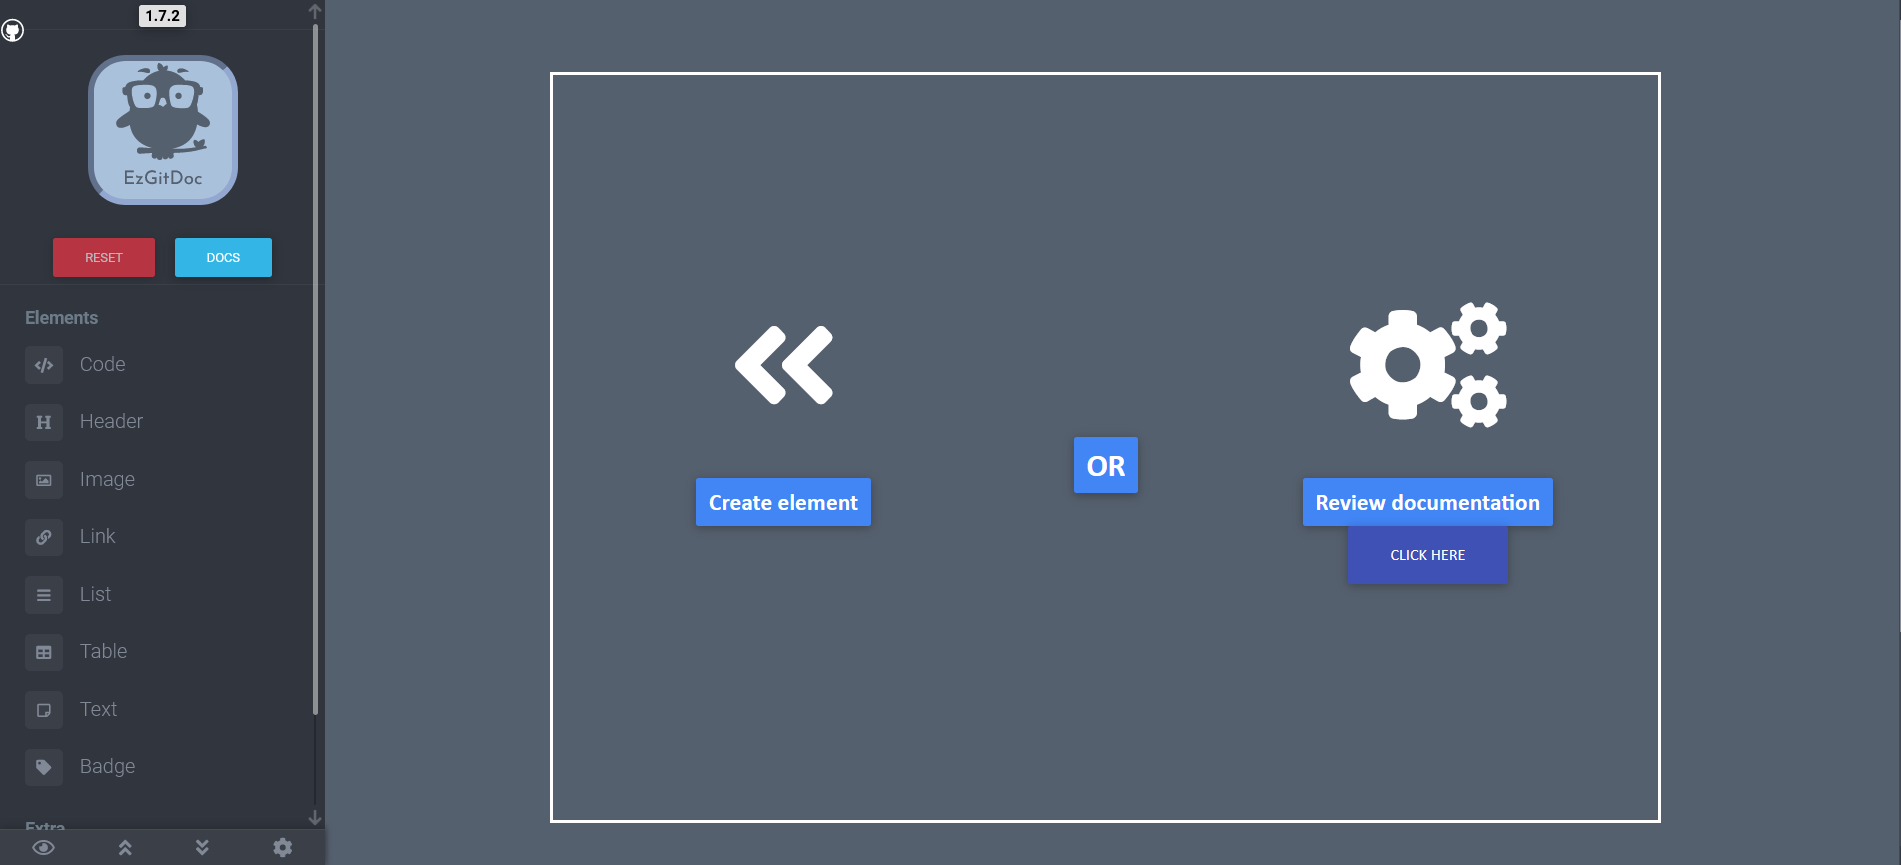
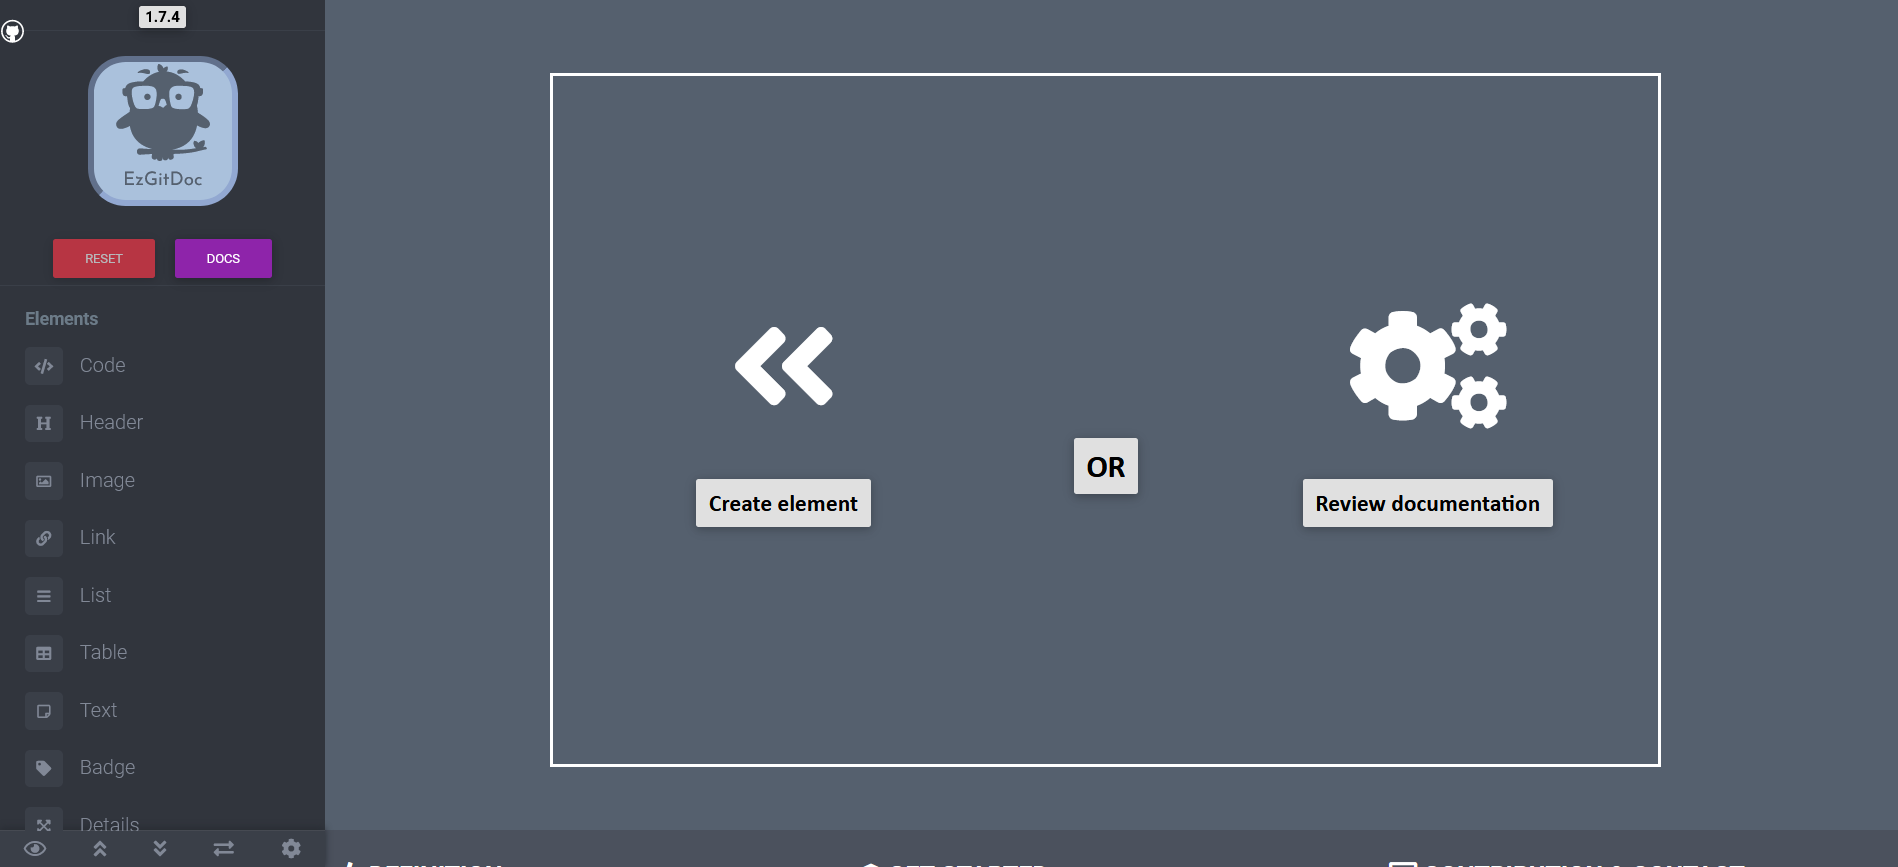
Update Quick start

diff --git a/src/pages/index.js b/src/pages/index.js
@@ -94,7 +94,7 @@ function Feature({imageUrl, title, description, credits, iconAuthor}) {
             <img className={styles.featureImage} src={imgUrl} alt={title} />
         </div>
       )}
-      <a href={credits} style={{fontSize:'10px'}} target="_blank">Icon made by {iconAuthor} from www.freeicons.io </a>
+      <a href={credits} style={{fontSize:'65%'}} target="_blank">Icon made by {iconAuthor} from www.freeicons.io </a>
       <h3>{title}</h3>
       <p className={styles.featureDescStyle}>{description}</p>
     </div>

diff --git a/docs/doc3_quickStart.md b/docs/doc3_quickStart.md
@@ -1,95 +1,145 @@
 ---
 id: doc3
-title: Quick start
+title: Quickstart
 slug: /quick-start
 ---
 
 import useBaseUrl from '@docusaurus/useBaseUrl';
 
-### 1. UI
+## 1. UI
 
 <p align="center">
 <img src={useBaseUrl('img/quickStart/1.png')} alt="Quick start - 01"/>
 </p>
 
 <p align="justify">
-EzGitDoc interface is split into two sections. Elements that can be created on the page are listed in the sidebar. Area that take the most space is a place where all rendered elements are stored during the process of making prototype.
+EzGitDoc interface is split into two sections. Elements that can be created on the page are listed in the sidebar. Area that take the most space(white rectangle) also named <strong>working space</strong>, is a place where all rendered elements are stored during the process of making prototype.
 </p>
 
 :::note
-Clicking one of the elements from sidebar or using exact key combination trigger modal in which you will need to pass some information in order to create chosen element.
+Clicking one of the elements from sidebar or using exact key combination triggers modal in which you will need to pass some information in order to create chosen element.
 :::
 
-### 2. Tools
+### 1.1. Sidebar
 
 <p align="center">
 <img src={useBaseUrl('img/quickStart/2.png')} alt="Quick start - 02"/>
 </p>
 
 <p align="justify">
-To reset prototype(clear all created elements) use red button placed below EzGitDoc logo in the sidebar section. This operation needs to be confirmed, so don't worry if you click it by mistake. 
-<br/><br/>
-In the bottom part of the sidebar there are 4 buttons(icons) that perform different operations. First one(eye icon) allows you to close sidebar to preview prototype without sidebar, double up/down arrow on click, slide to the top/bottom of the project. Last one(gear) opens modal with settings that can be adjusted.  
+Sidebar besides holding all references to elements that can be created within EzGitDoc has some useful tools that have been marked on the image above.
 </p>
 
-### 3. Settings
+#### [1] RESET
 
 <p align="justify">
-Personalize how EzGitDoc is working via settings panel.
+RESET button allows you to remove all created elements and clear working space. This operation cannot be undone and needs to be confirmed, so don't worry if you click it by mistake :) 
 </p>
 
-<p align="center">
-<img src={useBaseUrl('img/quickStart/3.png')} alt="Quick start - 03" height="400px"/>
-</p>
-
-### 4. Error Handling
+#### [2] DOCS
 
 <p align="justify">
-Before elements are created, required fields are validated. If given value is incompatible, empty or unexpected, notification will appear in the left top corner with details why element wasn't created. Element won't be created until errors are fixed. 
+Clicking on DOCS button results in opening new tab in browser with EzGitDoc documentation.
+</p>
+
+#### [3] FULL PAGE PREVIEW
+
+<p align="justify">
+Click on EYE icon to get full working space preview and hide sidebar.
+</p>
+
+#### [4] SCROLL TO THE TOP
+
+<p align="justify">
+If you click on DOUBLE UP ARROW icon, you will be moved to the top line of working space.
+</p>
+
+#### [5] SCROLL TO THE BOTTOM
+
+<p align="justify">
+If you click on DOUBLE DOWN ARROW icon, you will be moved to the bottom line of working space.
+</p>
+
+#### [6] REFERENCES
+
+<p align="justify">
+Tool added in EzGitDoc <a href="http://localhost:3000/EzGitDoc-documentation/changelog#v174-10102020" target="_blank">update 1.7.4</a> renders in modal references(anchors) to all elements created in EzGitDoc. It was made with purpose for biggers projects to quickly travel/move between elements. Clicked target is also highlighted for readability. 
 </p>
 
 <p align="center">
-<img src={useBaseUrl('img/quickStart/4.png')} alt="Quick start - 04"/>
+<img src={useBaseUrl('img/quickStart/3.png')} alt="Quick start - 02"/>
 </p>
 
-### 5. Updating content
+#### [7] SETTINGS
+
+<p align="justify">
+Click on GEAR icon to open modal with all EzGitDoc settings that can be personalized.
+</p>
 
 <p align="center">
-<img src={useBaseUrl('img/quickStart/5.png')} alt="Quick start - 05"/>
+<img src={useBaseUrl('img/quickStart/4.png')} alt="Quick start - 02"/>
+</p>
+
+### 1.2. Create
+
+<p align="justify">
+Process of creating element in EzGitDoc is simple. When certain element is activated from sidebar or triggered by shortkey combination you will see window(modal) on the right side with available options. Amount of data needed to fill in depends on element's type. Screen below shows window for creating image element.
+</p>
+
+<p align="center">
+<img src={useBaseUrl('img/quickStart/5.png')} alt="Quick start - 02"/>
+</p>
+
+### 1.3. Update
+
+<p align="justify">
+To update element, click on the button placed next to the element on it's left side (marked on the image below).
+</p>
+
+<p align="center">
+<img src={useBaseUrl('img/quickStart/6.png')} alt="Quick start - 02"/>
 </p>
 
 <p align="justify">
-If you want to update created element, for e.g. fill in data, you can do this by clicking left button(with test-tube icon), placed next to the element you wish to update. After that, modal will appear where you will be able to make allowed changes.
+Update window layout depends on element that is updated and implementend options. Almost every EzGitDoc element's content can be updated(besides few exceptions). For table element of type <strong>image / kbd / linked kbd</strong> you can only change all images resolutions at once. Below is shown update window for table of type text. 
 </p>
 
 <p align="center">
-<img src={useBaseUrl('img/quickStart/6.png')} alt="Quick start - 06"/>
+<img src={useBaseUrl('img/quickStart/7.png')} alt="Quick start - 02"/>
 </p>
 
 :::note
-If you plan on making more than one change it's worth to use update button frequently because if you click outside of the modal it disappears. Uncommited changes won't be saved and when you toggle update on the same element again, modal will be rerendered from it's last saved state. 
+If you plan on making more than one change it's worth to use update button frequently because if you click outside of the modal(update window) it disappears. Uncommited changes won't be saved and when you toggle update on the same element again, modal will be rerendered from it's last saved state. 
 :::
 
-### 6. Swapping & removing elements
+### 1.4. Errors
 
 <p align="justify">
-If you want to swap elements positions, you can do this by clicking with mouse button on the element you wish to move and drag until reaching desired position.
+Before elements are created, required fields are validated. If given value is incompatible, empty or unexpected, notification will appear in the left top corner with details why element wasn't created. Element won't be created until errors are fixed. Example:
 </p>
 
 <p align="center">
-<img src="https://trolit.github.io/EzGitDoc/images/quick_start_7.gif" alt="Quick start 6(Swapping Elements) gif"/>
+<img src={useBaseUrl('img/quickStart/8.png')} alt="Quick start - 04"/>
 </p>
 
-:::note
-To remove certain element, use red button(with white cross icon) that is placed on the right side.
-:::
+## 2. Working space
 
-### 7. Getting output
+### 2.1. Swapping elements
+
+<p align="justify">
+If you want to swap elements positions, you can do this by clicking with mouse button on the element you wish to move and drag until reaching desired position. In the future updates EzGitDoc will be extended with smart swapping tool.
+</p>
 
 <p align="center">
-<img src={useBaseUrl('img/quickStart/7.png')} alt="Quick start - 07"/>
+<img src={useBaseUrl('img/quickStart/9.gif')} alt="Quick start - 04"/>
+</p>
+
+### 2.2. Getting output
+
+<p align="center">
+<img src={useBaseUrl('img/quickStart/10.png')} alt="Quick start - 07"/>
 </p>
 
 <p align="justify">
-In order to be able to generate output for *.md file, you need to have at least one element created. If you do, you will notice button in the right top corner of the page called <code>Generate</code>. It will generate scheme output on click, showing results in modal like in the example above.
+In order to be able to generate output for *.md file, you need to have at least one element created. If you do, you will notice button in the right top corner of the page called <code>GENERATE CODE</code>. It will generate scheme output on click, showing results in modal like in the example above. You can copy output instantly into clipboard or save it for later.
 </p>

diff --git a/docs/doc0_about.md b/docs/doc0_about.md
@@ -11,10 +11,10 @@ import useBaseUrl from '@docusaurus/useBaseUrl';
 </p>
 
 <p align="justify">
-EzGitDoc allows to generate <code>*.md</code> file structure within projected template at <a href="https://trolit.github.io/EzGitDoc/"><em>https://trolit.github.io/EzGitDoc/</em></a>. You don't need to install anything as the project is setup and ready to use on github-pages. Every element's data can be modified after rendering it on page except image/kbd/linked kbd table(still with those table types you can quickly change images resolutions). Make prototype of your document, fill in data whenever you want, get ouput and polish it to your needs. Reduce to 0 the risk of elements not being rendered as expected with EzGitDoc :)
+EzGitDoc allows to generate <code>*.md</code> file structure within projected prototype at <a href="https://trolit.github.io/EzGitDoc/"><em>https://trolit.github.io/EzGitDoc/</em></a>. You don't need to install anything as the project is setup and ready to use on github-pages. Every element's data can be modified after rendering it on page except <em>image/kbd/linked kbd table</em>(still with those table types you can quickly change images resolutions). Make prototype of your document, fill in data whenever you want, get output and polish it to your needs. Don't waste time on creating elements from scratch, finding bug or modifying old scheme from different repository. Try EzGitDoc and create documentation you will like :)
 </p>
 
-### Used in EzGitDoc 
+### EzGitDoc 
 
 - <a href="https://github.com/SortableJS/Sortable" target="_blank">SortableJS</a>
 - <a href="https://fontawesome.com/" target="_blank">Font Awesome icons set</a>
@@ -27,6 +27,13 @@ EzGitDoc allows to generate <code>*.md</code> file structure within projected te
 - <a href="https://github.com/malihu/malihu-custom-scrollbar-plugin" target="_blank">Custom scrollbar plugin</a>
 - <a href="https://bootsnipp.com/snippets/Q0dAX" target="_blank">Modified sidebar snippet</a>
 - <a href="https://github.com/itsjavi/bootstrap-colorpicker" target="_blank">Bootstrap colorpicker</a>
+
+### Documentation 
+
+- <a href="https://v2.docusaurus.io/" target="_blank">Docusaurus2</a>
+- <a href="https://github.com/rcaferati/react-awesome-slider" target="_blank">React Awesome Slider</a>
+- <a href="https://github.com/rcaferati/react-awesome-button" target="_blank">React Awesome Button</a>
+- <a href="https://freeicons.io/" target="_blank">SVG icons from Freeicons</a>
 
 ### License
 
